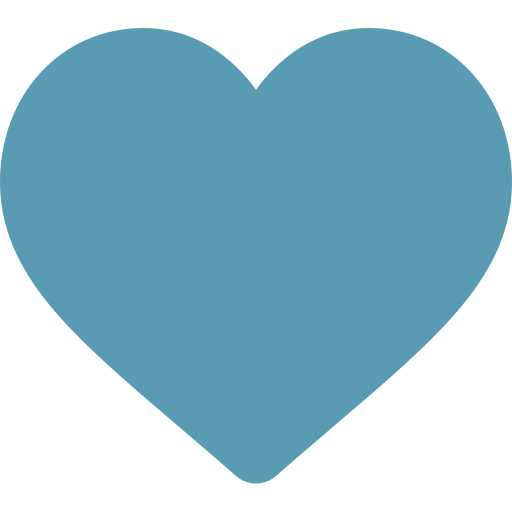
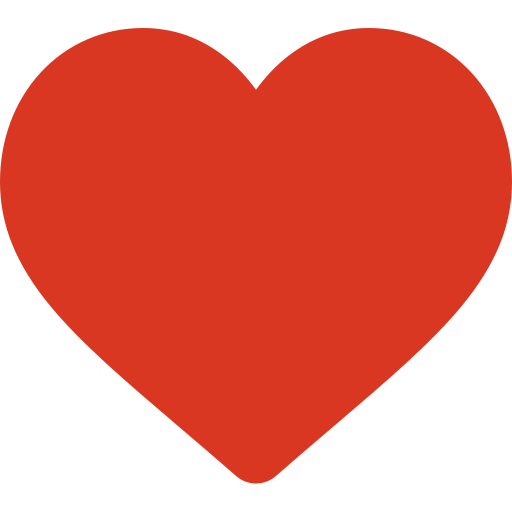
Played around with colors and fonts on Discovery page

diff --git a/discovery.html b/discovery.html
@@ -2,8 +2,7 @@
 <html>
     <head>
         <title>Armchair Discovery</title>
-        <link href='https://fonts.googleapis.com/css?family=Pacifico' rel='stylesheet'>
-        <link href='https://fonts.googleapis.com/css?family=Acme' rel='stylesheet'>
+        <link href="https://fonts.googleapis.com/css?family=Goudy+Bookletter+1911&display=swap" rel="stylesheet"> 
         <meta name="viewport" content="width=device-width, initial-scale=1.0"> 
     </head>
 
@@ -21,39 +20,41 @@
         }
 
         header {
-            background-color: white;
+            background-color: #93B7EF;
             position: sticky;
             top: 0;
             z-index: 1;
             -webkit-box-shadow: 0 4px 6px -6px #222;
             -moz-box-shadow: 0 4px 6px -6px #222;
             box-shadow: 0 4px 6px -6px #222;
+            height: 20vw;
         }
 
         header .text,
         header img{
             display: inline-block;
-            vertical-align: middle;
+            vertical-align: top;
         }
 
         header .text{
-            font-family: 'Pacifico';
-	        font-size: 3vw;	
-	        text-shadow: 4px 2px #4ECDC7;
-	        color: black;
+            font-family: 'Goudy Bookletter 1911', serif;
+            /*font-weight: bold;*/
+	        font-size: 4vw;	
+	        /*text-shadow: 2px 2px rgb(236, 201, 161);*/
+	        color: white;
 	        letter-spacing: 2px;
         }
 
         header img{
-            max-width: 12%;
+            max-width: 20%;
         }
 
         .listtitle{
             margin: 0 0;
             position: relative;
             top: 0;
-            background:linear-gradient(to bottom, #599bb3 5%, #73a4ff 100%);
-	        background-color:#599bb3;
+            background:linear-gradient(to bottom, #ff8878 5%,#ebc192 100%);
+	        background-color:#ff8878;
             color: white;
             max-width: 100%;
             height: 10vw;
@@ -61,7 +62,7 @@
         }
 
         .listtitle h3{
-            font-family: 'acme';
+            font-family: 'Goudy Bookletter 1911', serif;;
             font-weight: lighter;
             position: absolute;
             margin-top: 2vw;
@@ -78,7 +79,7 @@
         }
 
         .medialist li{
-            background-color: white;
+            background-color: #93B7EF;
             -webkit-box-shadow: 0 4px 6px -6px #222;
             -moz-box-shadow: 0 4px 6px -6px #222;
             box-shadow: 0 4px 6px -6px #222;
@@ -98,7 +99,7 @@
             list-style: none;
             font-family: 'arial';
             font-weight: lighter;
-            color: #57595c;
+            color: #f3d9bb;
             font-size: 3.5vw;
             position: relative;
             top: 1vw;
@@ -114,7 +115,6 @@
             right: 50;
             color: black;
             font-weight: bold;
-            
             margin: 0 2vw;
             text-align: left;
         }
@@ -125,7 +125,7 @@
 
          .medialist li .like{
             color: white;
-            background-color: white;
+            background-color: #93B7EF;
             border: none;
             max-width: 8%;
             margin: 10px 10px;
